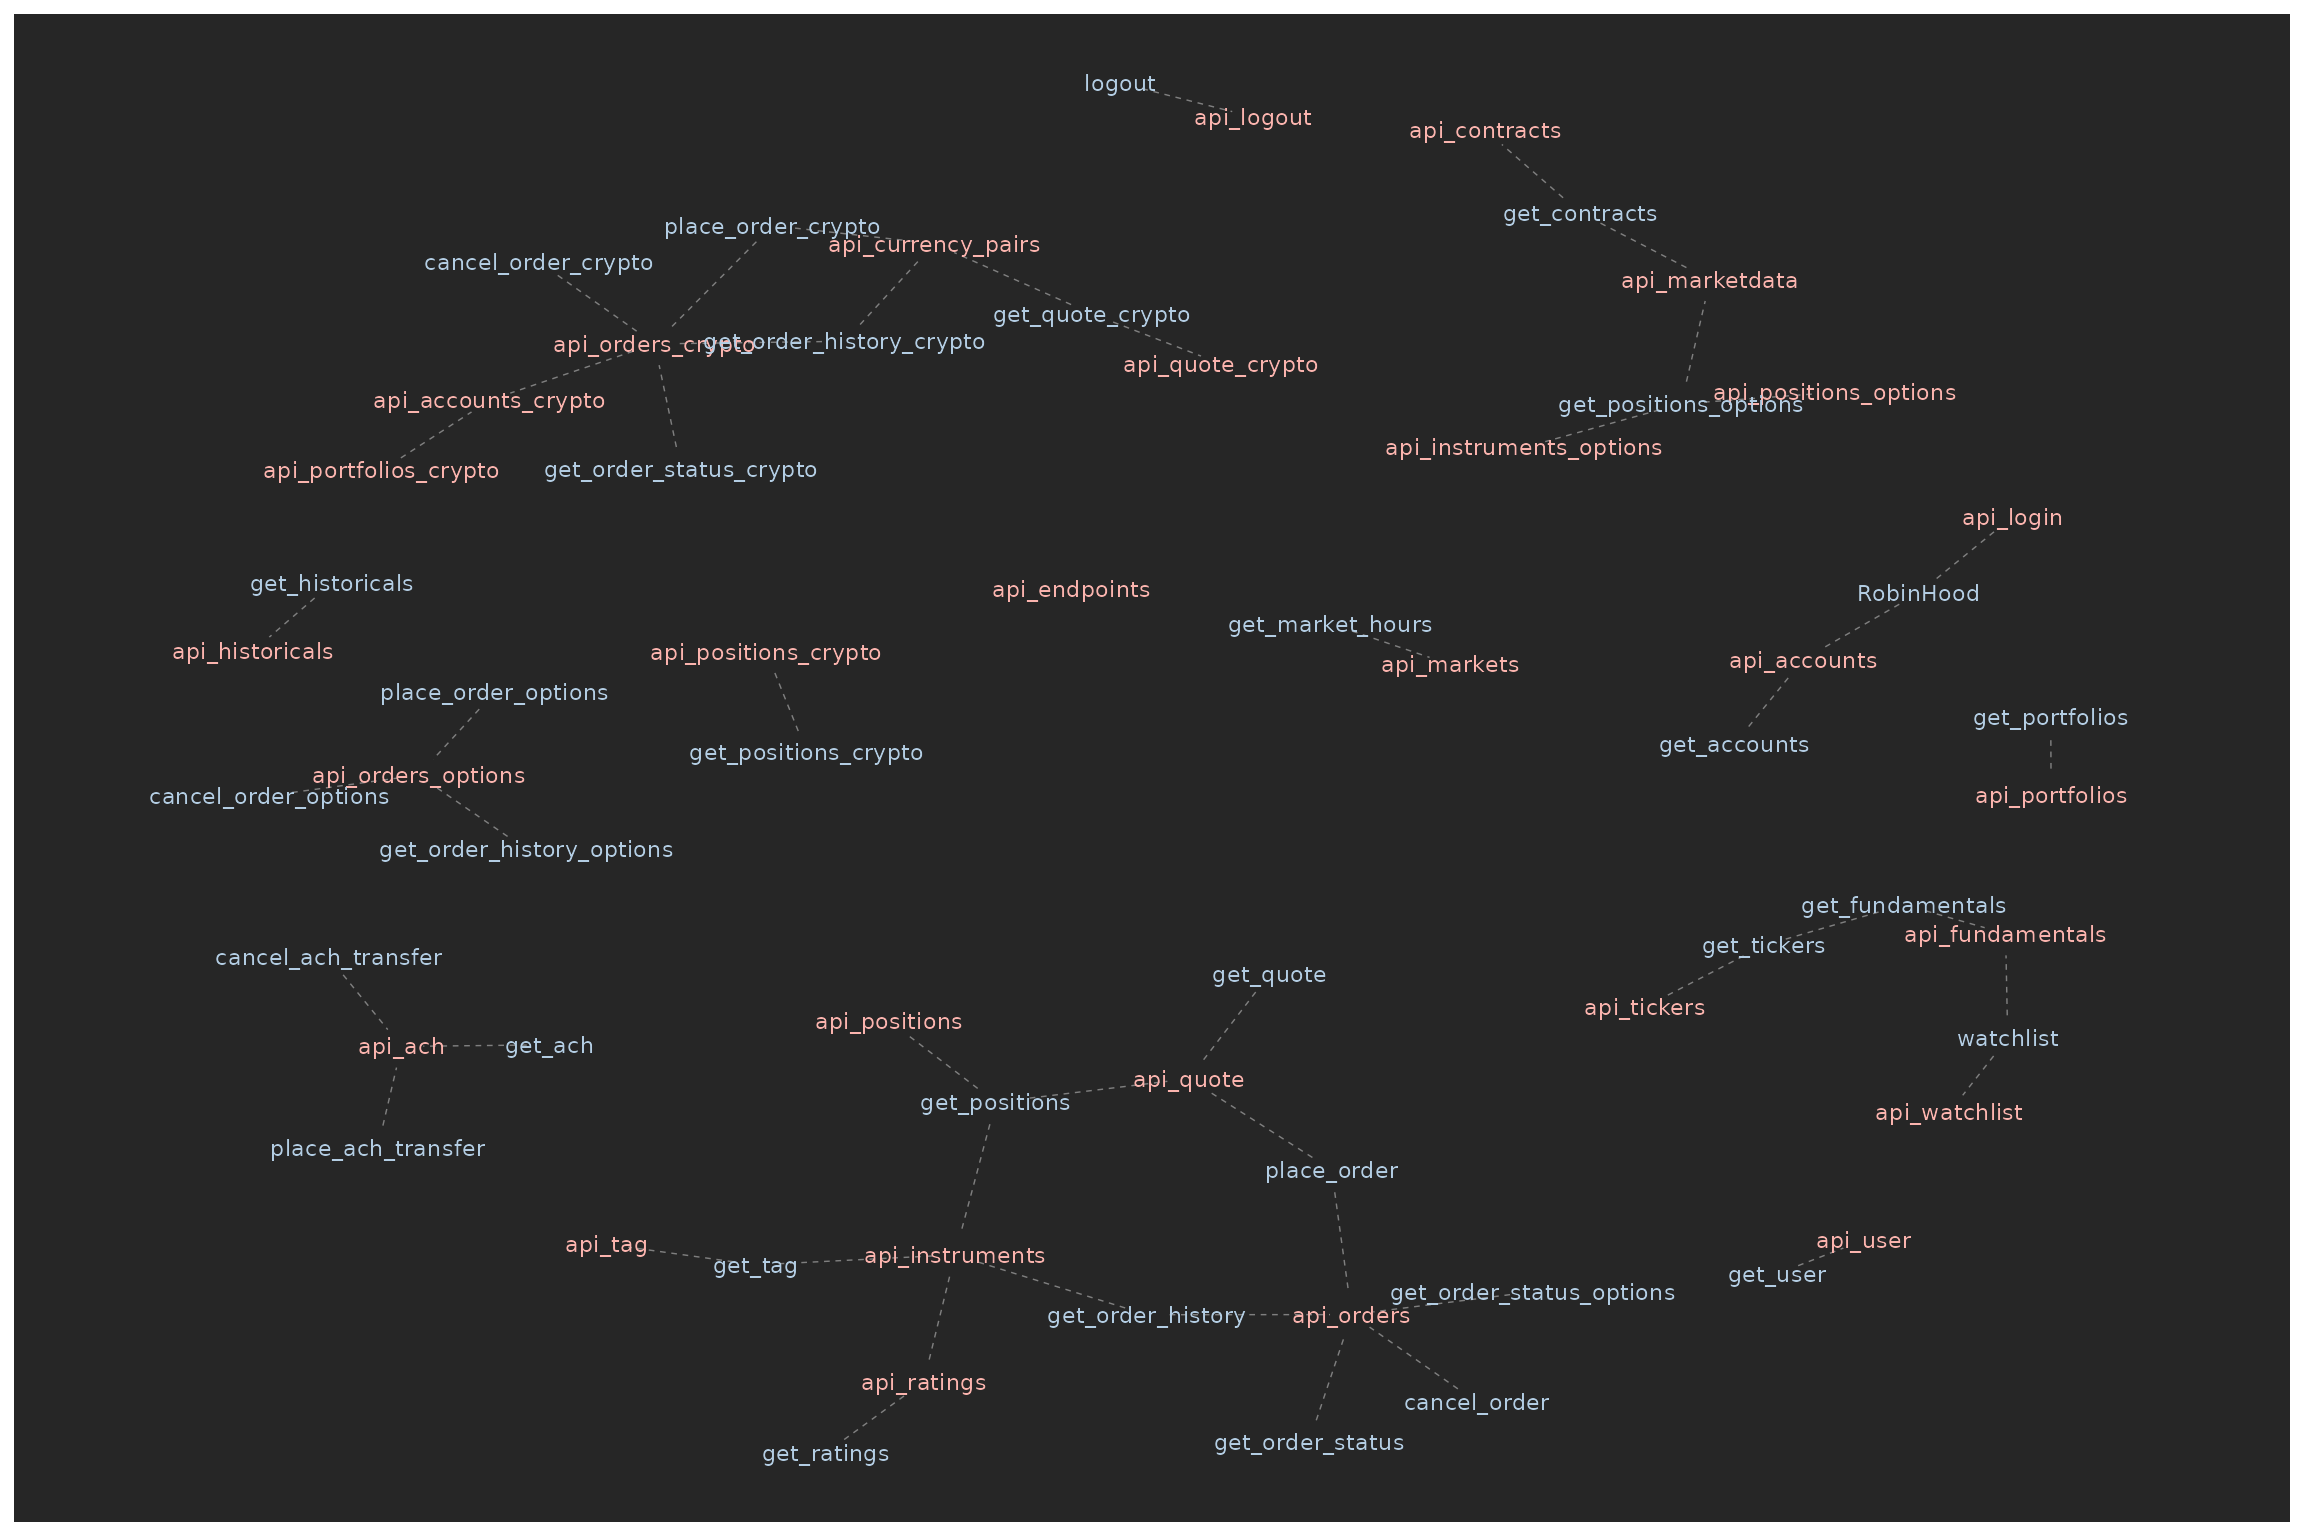
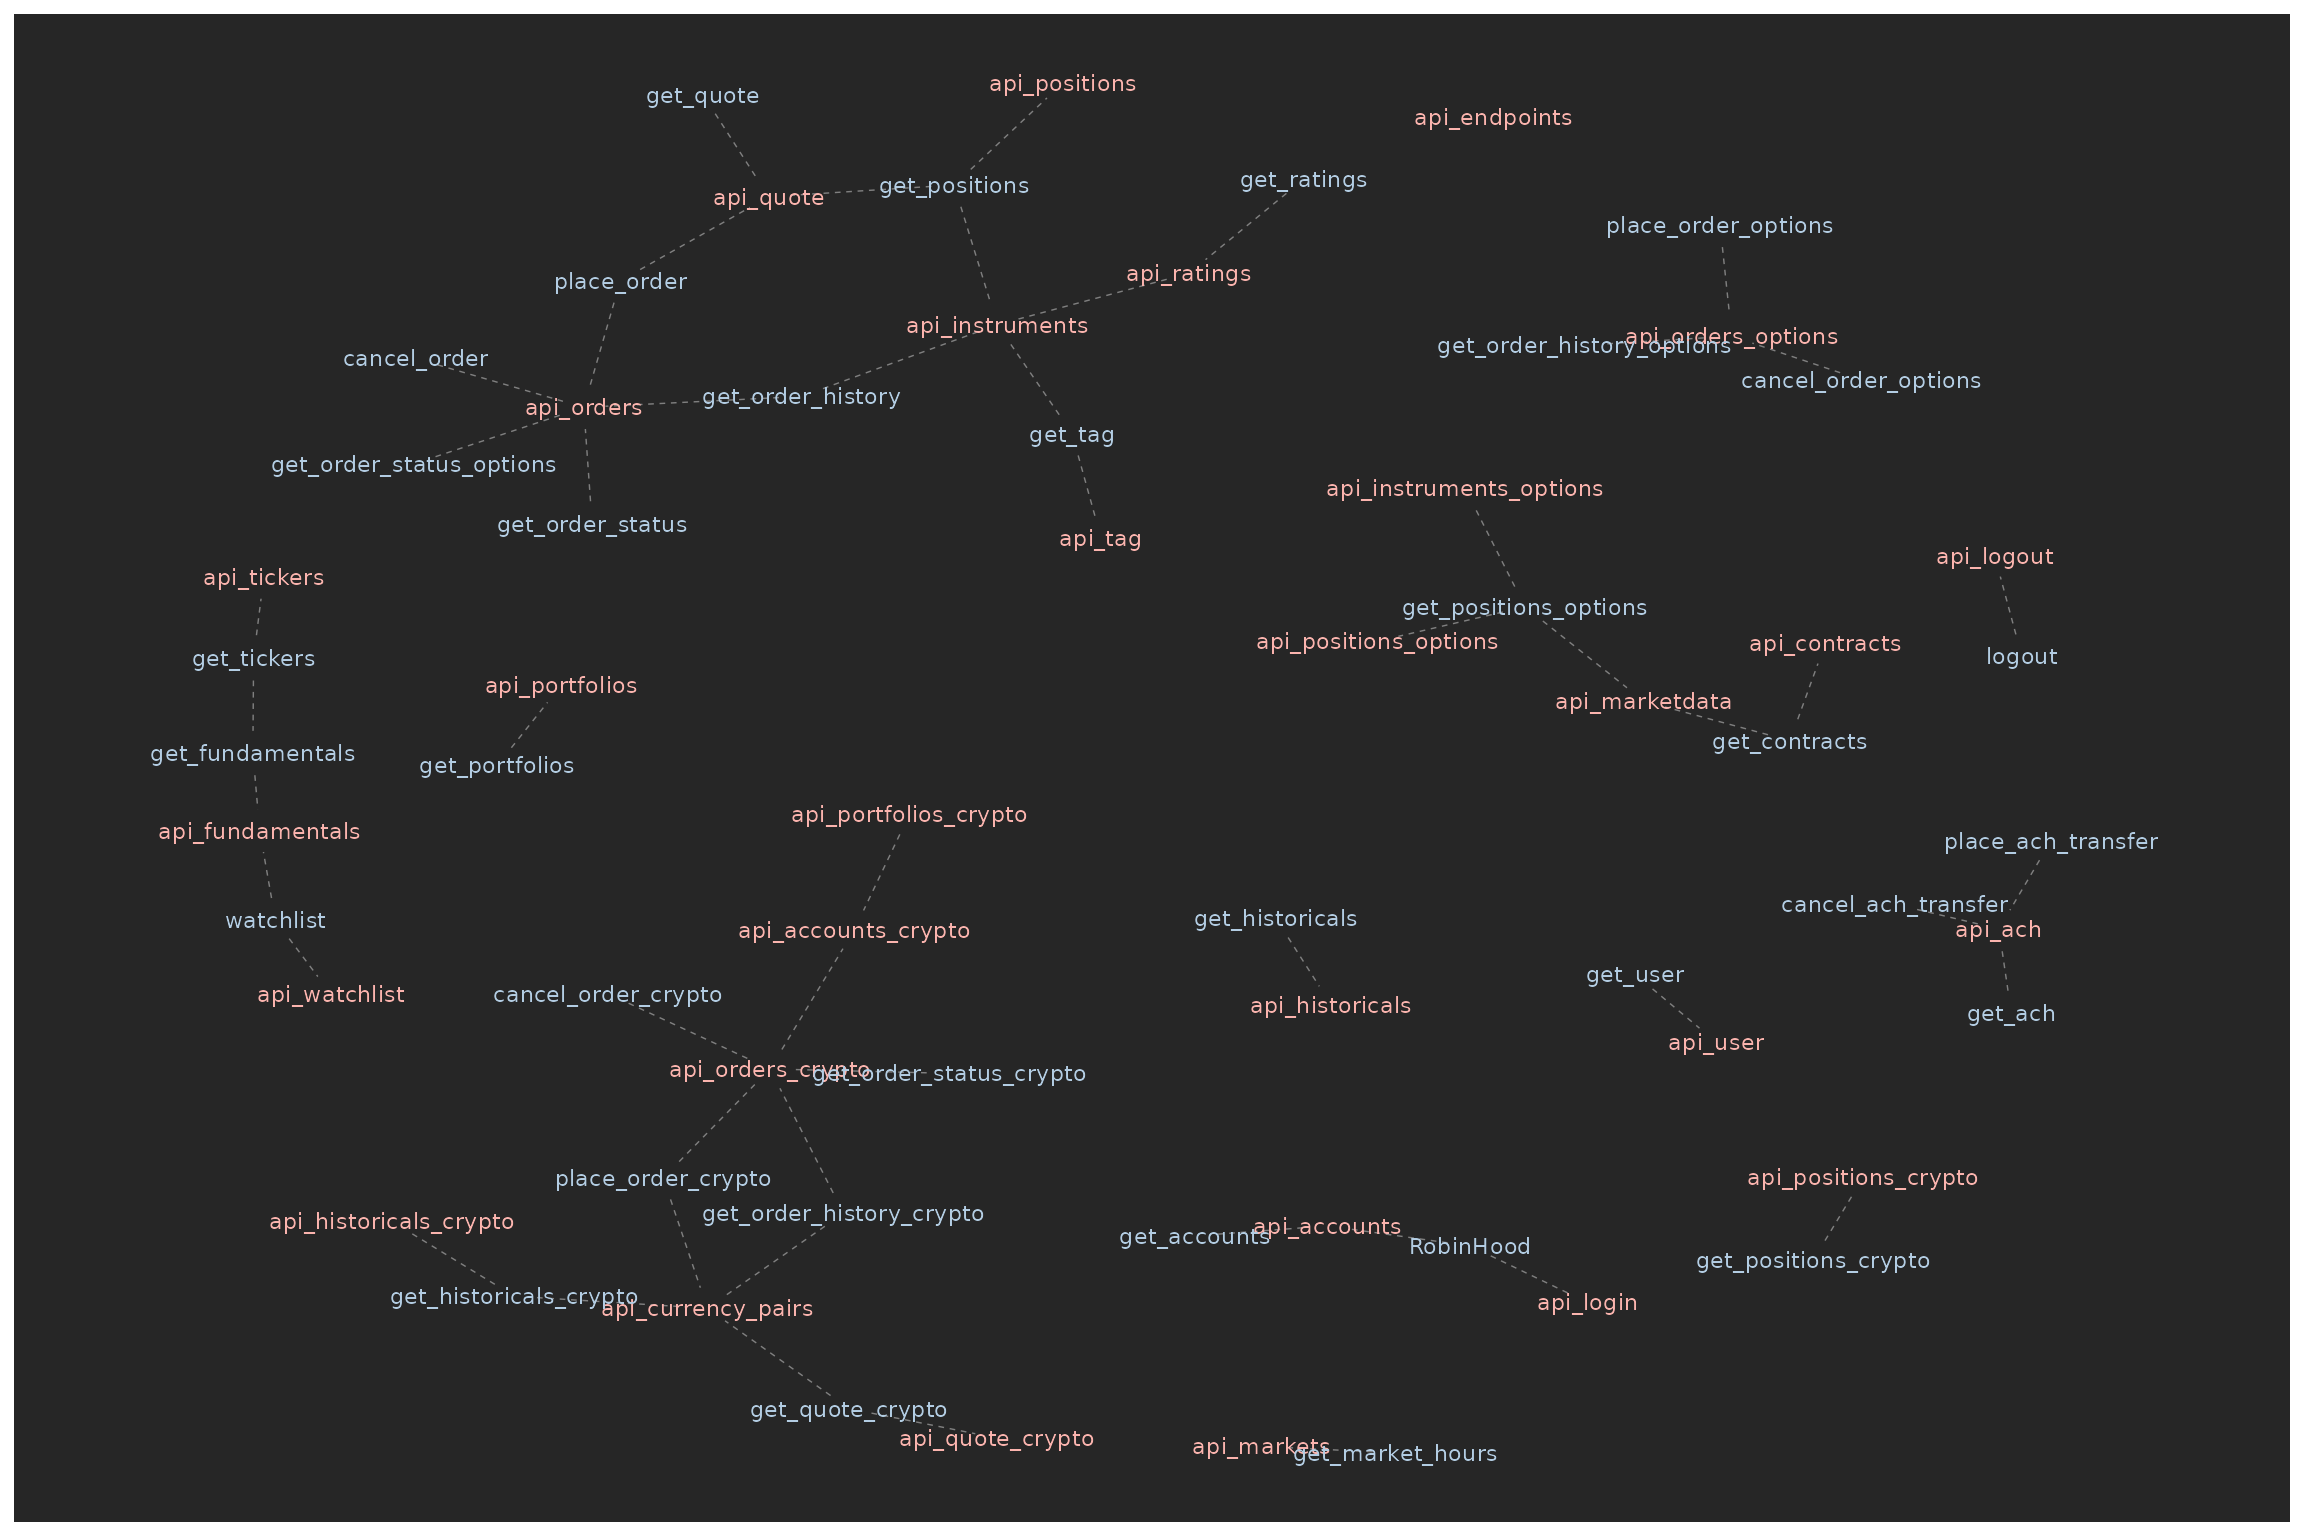
(GH-116) added new function `get_historicals_crypto`

diff --git a/docs/reference/get_historicals_crypto.html b/docs/reference/get_historicals_crypto.html
@@ -6,7 +6,7 @@
 <meta http-equiv="X-UA-Compatible" content="IE=edge">
 <meta name="viewport" content="width=device-width, initial-scale=1.0">
 
-<title>Get historical price history from RobinHood — get_historicals • RobinHood</title>
+<title>Get historical crypto price history from RobinHood — get_historicals_crypto • RobinHood</title>
 
 
 <!-- jquery -->
@@ -39,8 +39,8 @@
 
 
 
-<meta property="og:title" content="Get historical price history from RobinHood — get_historicals" />
-<meta property="og:description" content="Returns a data frame of historical price history for a given symbol." />
+<meta property="og:title" content="Get historical crypto price history from RobinHood — get_historicals_crypto" />
+<meta property="og:description" content="Returns a data frame of historical crypto price history for a given symbol." />
 
 
 
@@ -129,16 +129,16 @@
 <div class="row">
   <div class="col-md-9 contents">
     <div class="page-header">
-    <h1>Get historical price history from RobinHood</h1>
-    <small class="dont-index">Source: <a href='https://github.com/JestonBlu/RobinHood/blob/master/R/get_historicals.R'><code>R/get_historicals.R</code></a></small>
-    <div class="hidden name"><code>get_historicals.Rd</code></div>
+    <h1>Get historical crypto price history from RobinHood</h1>
+    <small class="dont-index">Source: <a href='https://github.com/JestonBlu/RobinHood/blob/master/R/get_historicals_crypto.R'><code>R/get_historicals_crypto.R</code></a></small>
+    <div class="hidden name"><code>get_historicals_crypto.Rd</code></div>
     </div>
 
     <div class="ref-description">
-    <p>Returns a data frame of historical price history for a given symbol.</p>
+    <p>Returns a data frame of historical crypto price history for a given symbol.</p>
     </div>
 
-    <pre class="usage"><span class='fu'>get_historicals</span><span class='op'>(</span><span class='va'>RH</span>, <span class='va'>symbol</span>, <span class='va'>interval</span>, <span class='va'>span</span>, tz <span class='op'>=</span> <span class='fu'><a href='https://rdrr.io/r/base/timezones.html'>Sys.timezone</a></span><span class='op'>(</span><span class='op'>)</span><span class='op'>)</span></pre>
+    <pre class="usage"><span class='fu'>get_historicals_crypto</span><span class='op'>(</span><span class='va'>RH</span>, <span class='va'>symbol</span>, <span class='va'>interval</span>, <span class='va'>span</span>, <span class='va'>bounds</span>, tz <span class='op'>=</span> <span class='fu'><a href='https://rdrr.io/r/base/timezones.html'>Sys.timezone</a></span><span class='op'>(</span><span class='op'>)</span><span class='op'>)</span></pre>
 
     <h2 class="hasAnchor" id="arguments"><a class="anchor" href="#arguments"></a>Arguments</h2>
     <table class="ref-arguments">
@@ -149,7 +149,7 @@
     </tr>
     <tr>
       <th>symbol</th>
-      <td><p>(string) Stock symbol to query, single symbol only</p></td>
+      <td><p>(string) ticker symbol of crypto (BTC, ETH, ETC)</p></td>
     </tr>
     <tr>
       <th>interval</th>
@@ -158,6 +158,10 @@
     <tr>
       <th>span</th>
       <td><p>(string) Period of time you are interested in (examples: day, week, month, year)</p></td>
+    </tr>
+    <tr>
+      <th>bounds</th>
+      <td><p>(string) One of regular (6 hours), trading (9 hours), extended (16 hours), 24_7</p></td>
     </tr>
     <tr>
       <th>tz</th>
@@ -171,7 +175,8 @@
 <span class='co'># Login in to your RobinHood account</span>
 <span class='va'>RH</span> <span class='op'>&lt;-</span> <span class='fu'><a href='RobinHood.html'>RobinHood</a></span><span class='op'>(</span><span class='st'>"username"</span>, <span class='st'>"password"</span><span class='op'>)</span>
 
-<span class='fu'>get_historicals</span><span class='op'>(</span>RH <span class='op'>=</span> <span class='va'>RH</span>, symbol <span class='op'>=</span> <span class='st'>"CAT"</span>, interval <span class='op'>=</span> <span class='st'>"day"</span>, span <span class='op'>=</span> <span class='st'>"month"</span><span class='op'>)</span>
+<span class='fu'>get_historicals_crypto</span><span class='op'>(</span>RH <span class='op'>=</span> <span class='va'>RH</span>, symbol <span class='op'>=</span> <span class='st'>"ETC"</span>, interval <span class='op'>=</span> <span class='st'>"day"</span>, bounds <span class='op'>=</span> <span class='st'>"extended"</span>,
+                       span <span class='op'>=</span> <span class='st'>"month"</span><span class='op'>)</span>
 
 <span class='op'>}</span>
 </div></pre>

diff --git a/docs/reference/api_historicals_crypto.html b/docs/reference/api_historicals_crypto.html
@@ -6,7 +6,7 @@
 <meta http-equiv="X-UA-Compatible" content="IE=edge">
 <meta name="viewport" content="width=device-width, initial-scale=1.0">
 
-<title>Get historical price history from RobinHood — get_historicals • RobinHood</title>
+<title>RobinHood API: Historicals crypto — api_historicals_crypto • RobinHood</title>
 
 
 <!-- jquery -->
@@ -39,8 +39,8 @@
 
 
 
-<meta property="og:title" content="Get historical price history from RobinHood — get_historicals" />
-<meta property="og:description" content="Returns a data frame of historical price history for a given symbol." />
+<meta property="og:title" content="RobinHood API: Historicals crypto — api_historicals_crypto" />
+<meta property="og:description" content="Backend function called by get_historicals_crypto(). Returns a data frame of historical price data." />
 
 
 
@@ -129,16 +129,16 @@
 <div class="row">
   <div class="col-md-9 contents">
     <div class="page-header">
-    <h1>Get historical price history from RobinHood</h1>
-    <small class="dont-index">Source: <a href='https://github.com/JestonBlu/RobinHood/blob/master/R/get_historicals.R'><code>R/get_historicals.R</code></a></small>
-    <div class="hidden name"><code>get_historicals.Rd</code></div>
+    <h1>RobinHood API: Historicals crypto</h1>
+    <small class="dont-index">Source: <a href='https://github.com/JestonBlu/RobinHood/blob/master/R/api_historicals_crypto.R'><code>R/api_historicals_crypto.R</code></a></small>
+    <div class="hidden name"><code>api_historicals_crypto.Rd</code></div>
     </div>
 
     <div class="ref-description">
-    <p>Returns a data frame of historical price history for a given symbol.</p>
+    <p>Backend function called by get_historicals_crypto(). Returns a data frame of historical price data.</p>
     </div>
 
-    <pre class="usage"><span class='fu'>get_historicals</span><span class='op'>(</span><span class='va'>RH</span>, <span class='va'>symbol</span>, <span class='va'>interval</span>, <span class='va'>span</span>, tz <span class='op'>=</span> <span class='fu'><a href='https://rdrr.io/r/base/timezones.html'>Sys.timezone</a></span><span class='op'>(</span><span class='op'>)</span><span class='op'>)</span></pre>
+    <pre class="usage"><span class='fu'>api_historicals_crypto</span><span class='op'>(</span><span class='va'>RH</span>, <span class='va'>url</span><span class='op'>)</span></pre>
 
     <h2 class="hasAnchor" id="arguments"><a class="anchor" href="#arguments"></a>Arguments</h2>
     <table class="ref-arguments">
@@ -148,33 +148,12 @@
       <td><p>object of class RobinHood</p></td>
     </tr>
     <tr>
-      <th>symbol</th>
-      <td><p>(string) Stock symbol to query, single symbol only</p></td>
-    </tr>
-    <tr>
-      <th>interval</th>
-      <td><p>(string) Interval of time to aggregate to (examples: hour, day, week, month)</p></td>
-    </tr>
-    <tr>
-      <th>span</th>
-      <td><p>(string) Period of time you are interested in (examples: day, week, month, year)</p></td>
-    </tr>
-    <tr>
-      <th>tz</th>
-      <td><p>(string) timezone returned by OlsonNames() (eg: "America/Chicago")</p></td>
+      <th>url</th>
+      <td><p>(string) full url coming from get_historicals_crypto</p></td>
     </tr>
     </table>
 
 
-    <h2 class="hasAnchor" id="examples"><a class="anchor" href="#examples"></a>Examples</h2>
-    <pre class="examples"><div class='input'><span class='kw'>if</span> <span class='op'>(</span><span class='cn'>FALSE</span><span class='op'>)</span> <span class='op'>{</span>
-<span class='co'># Login in to your RobinHood account</span>
-<span class='va'>RH</span> <span class='op'>&lt;-</span> <span class='fu'><a href='RobinHood.html'>RobinHood</a></span><span class='op'>(</span><span class='st'>"username"</span>, <span class='st'>"password"</span><span class='op'>)</span>
-
-<span class='fu'>get_historicals</span><span class='op'>(</span>RH <span class='op'>=</span> <span class='va'>RH</span>, symbol <span class='op'>=</span> <span class='st'>"CAT"</span>, interval <span class='op'>=</span> <span class='st'>"day"</span>, span <span class='op'>=</span> <span class='st'>"month"</span><span class='op'>)</span>
-
-<span class='op'>}</span>
-</div></pre>
   </div>
   <div class="col-md-3 hidden-xs hidden-sm" id="pkgdown-sidebar">
     <nav id="toc" data-toggle="toc" class="sticky-top">

diff --git a/docs/reference/index.html b/docs/reference/index.html
@@ -214,6 +214,12 @@
       </tr><tr>
         
         <td>
+          <p><code><a href="get_historicals_crypto.html">get_historicals_crypto()</a></code> </p>
+        </td>
+        <td><p>Get historical crypto price history from RobinHood</p></td>
+      </tr><tr>
+        
+        <td>
           <p><code><a href="get_market_hours.html">get_market_hours()</a></code> </p>
         </td>
         <td><p>Get open market hours</p></td>
@@ -410,6 +416,12 @@
           <p><code><a href="api_historicals.html">api_historicals()</a></code> </p>
         </td>
         <td><p>RobinHood API: Historicals</p></td>
+      </tr><tr>
+        
+        <td>
+          <p><code><a href="api_historicals_crypto.html">api_historicals_crypto()</a></code> </p>
+        </td>
+        <td><p>RobinHood API: Historicals crypto</p></td>
       </tr><tr>
         
         <td>

diff --git a/NEWS.md b/NEWS.md
@@ -8,6 +8,7 @@ title: "NEWS"
 ## New Features
   - [(GH-74)](https://github.com/JestonBlu/RobinHood/issues/74) `get_ratings()`: returns analyst rating and comments for a particular instrument
   - [(GH-117)](https://github.com/JestonBlu/RobinHood/issues/117) `get_positions_crypto()`: added average_price field
+  - [(GH-116)](https://github.com/JestonBlu/RobinHood/issues/116) New function `get_historicals_crypto()` (@jgQuantScripts)
 
 ## Bug Fixes
   - [(GH-108)](https://github.com/JestonBlu/RobinHood/issues/108) `get_tickers()`: no longer fails when call returns no info about a given equity symbol
@@ -19,6 +20,7 @@ title: "NEWS"
 ## Clean up
   - [(GH-101)](https://github.com/JestonBlu/RobinHood/issues/101) `place_order()`: no longer prevents you from trading fractional shares
   - [(GH-114)](https://github.com/JestonBlu/RobinHood/issues/114) `get_positions_crypto()` swapped out `average_price` for `mark_price`, eliminating rounding errors
+  - Fixed various documentation typos
 
 ## Documentation
   - Updated layout of site
